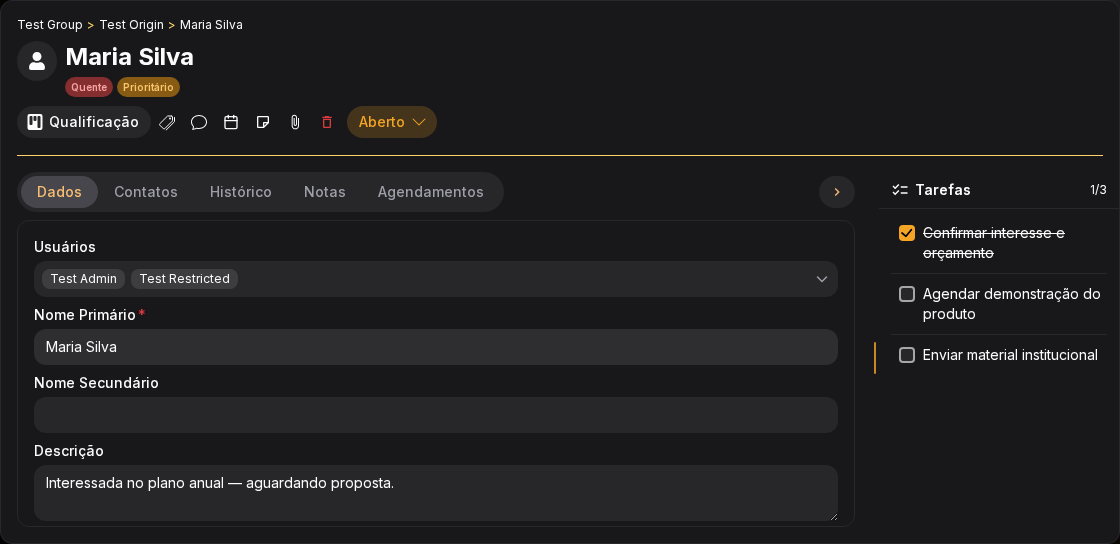
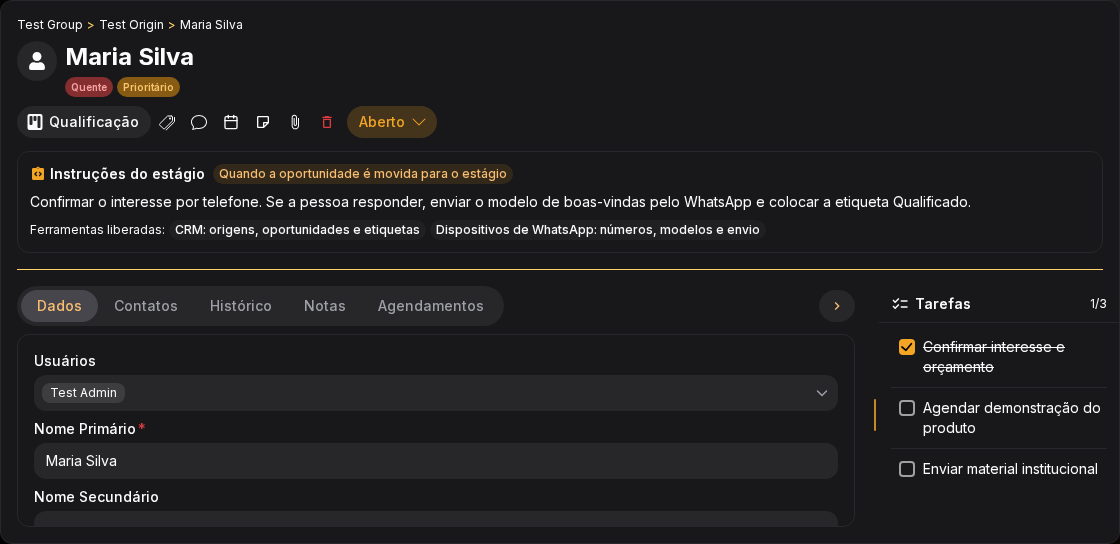
The stage tasks section explains stage instructions, their trigger moments and Ducke tools with a new print, and the lead panel print shows the instructions block.
Claude-Session: https://claude.ai/code/session_01GCzWhF6CduDskTTiUpa4BX

diff --git a/app/3-gestao-de-leads/4-tarefas-da-etapa/_meta.js b/app/3-gestao-de-leads/4-tarefas-da-etapa/_meta.js
@@ -1,4 +1,5 @@
 export default {
   '1-configurar-tarefas': 'Configurar tarefas',
   '2-checklist-do-lead': 'Checklist no lead',
+  '3-instrucoes-do-estagio': 'Instruções do estágio',
 }
